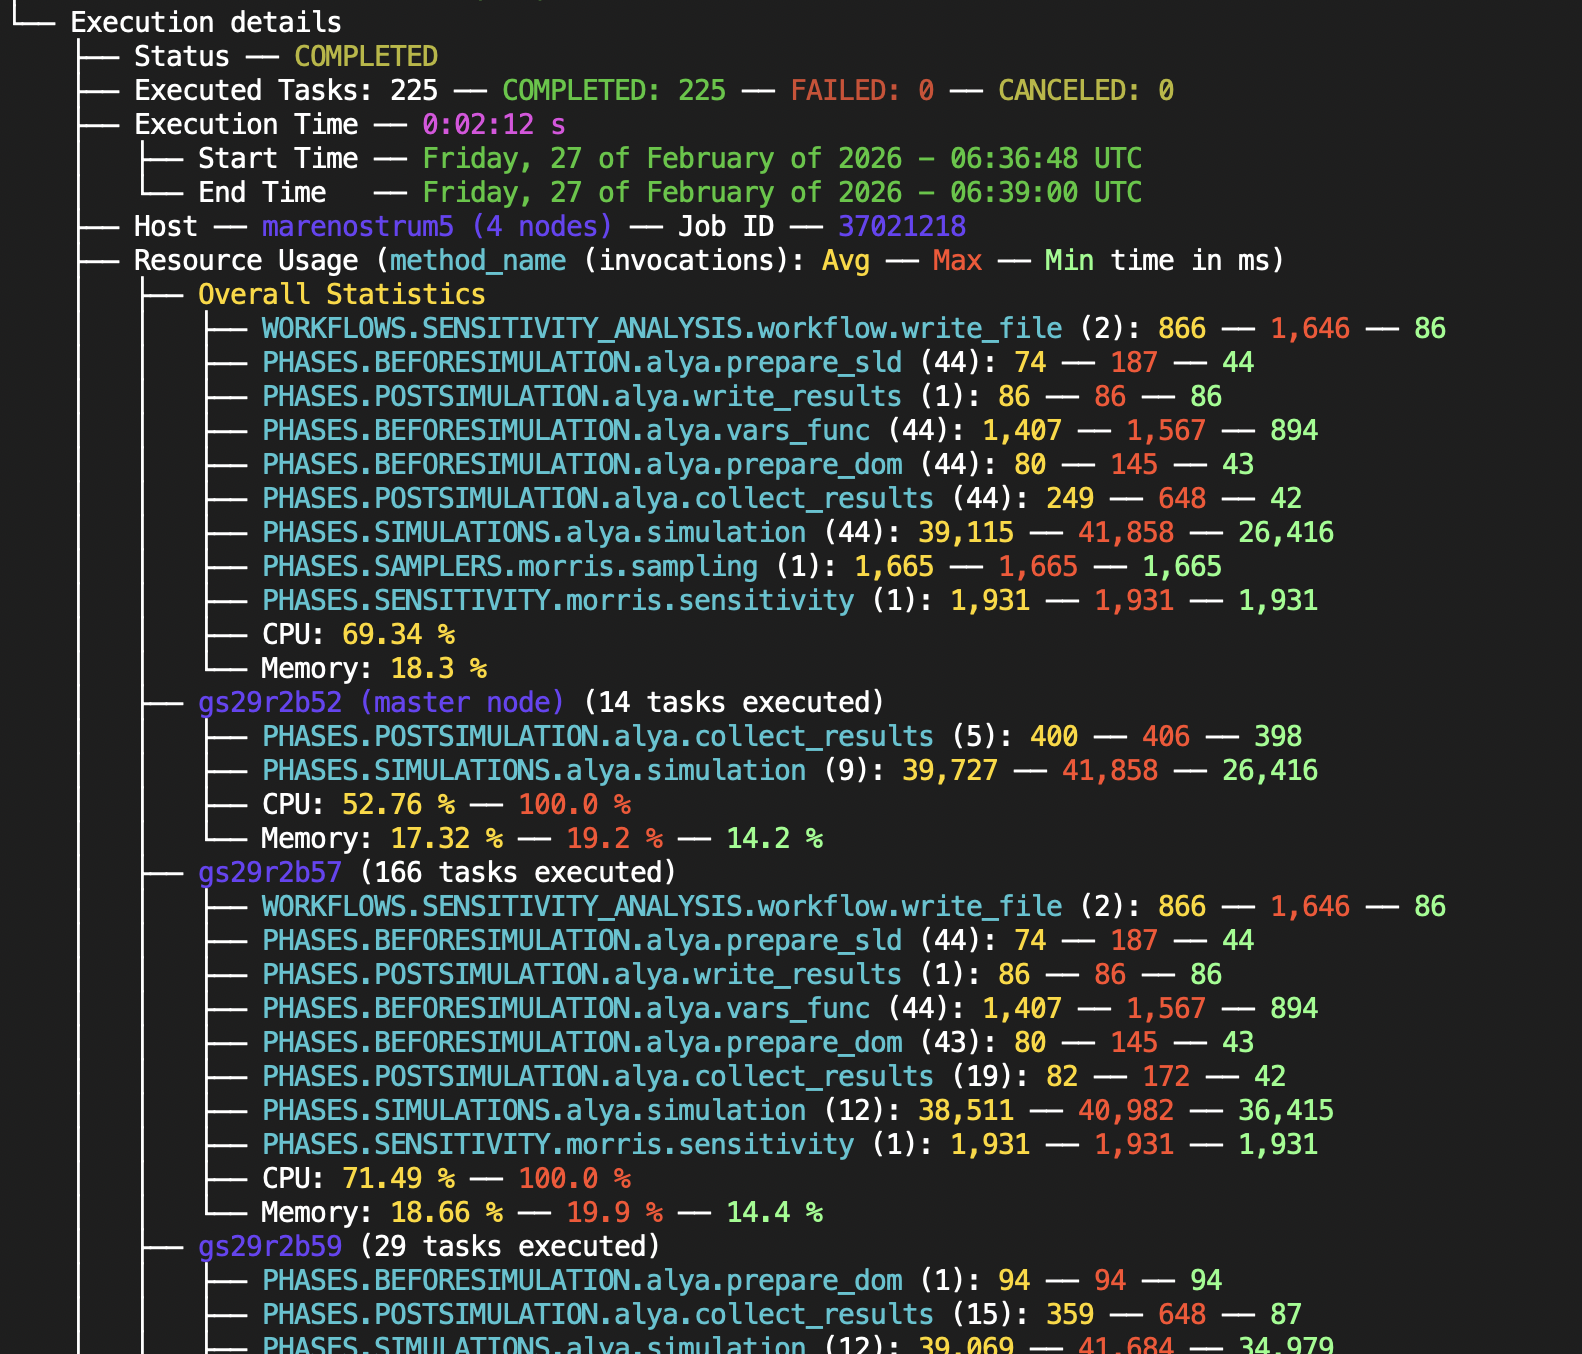
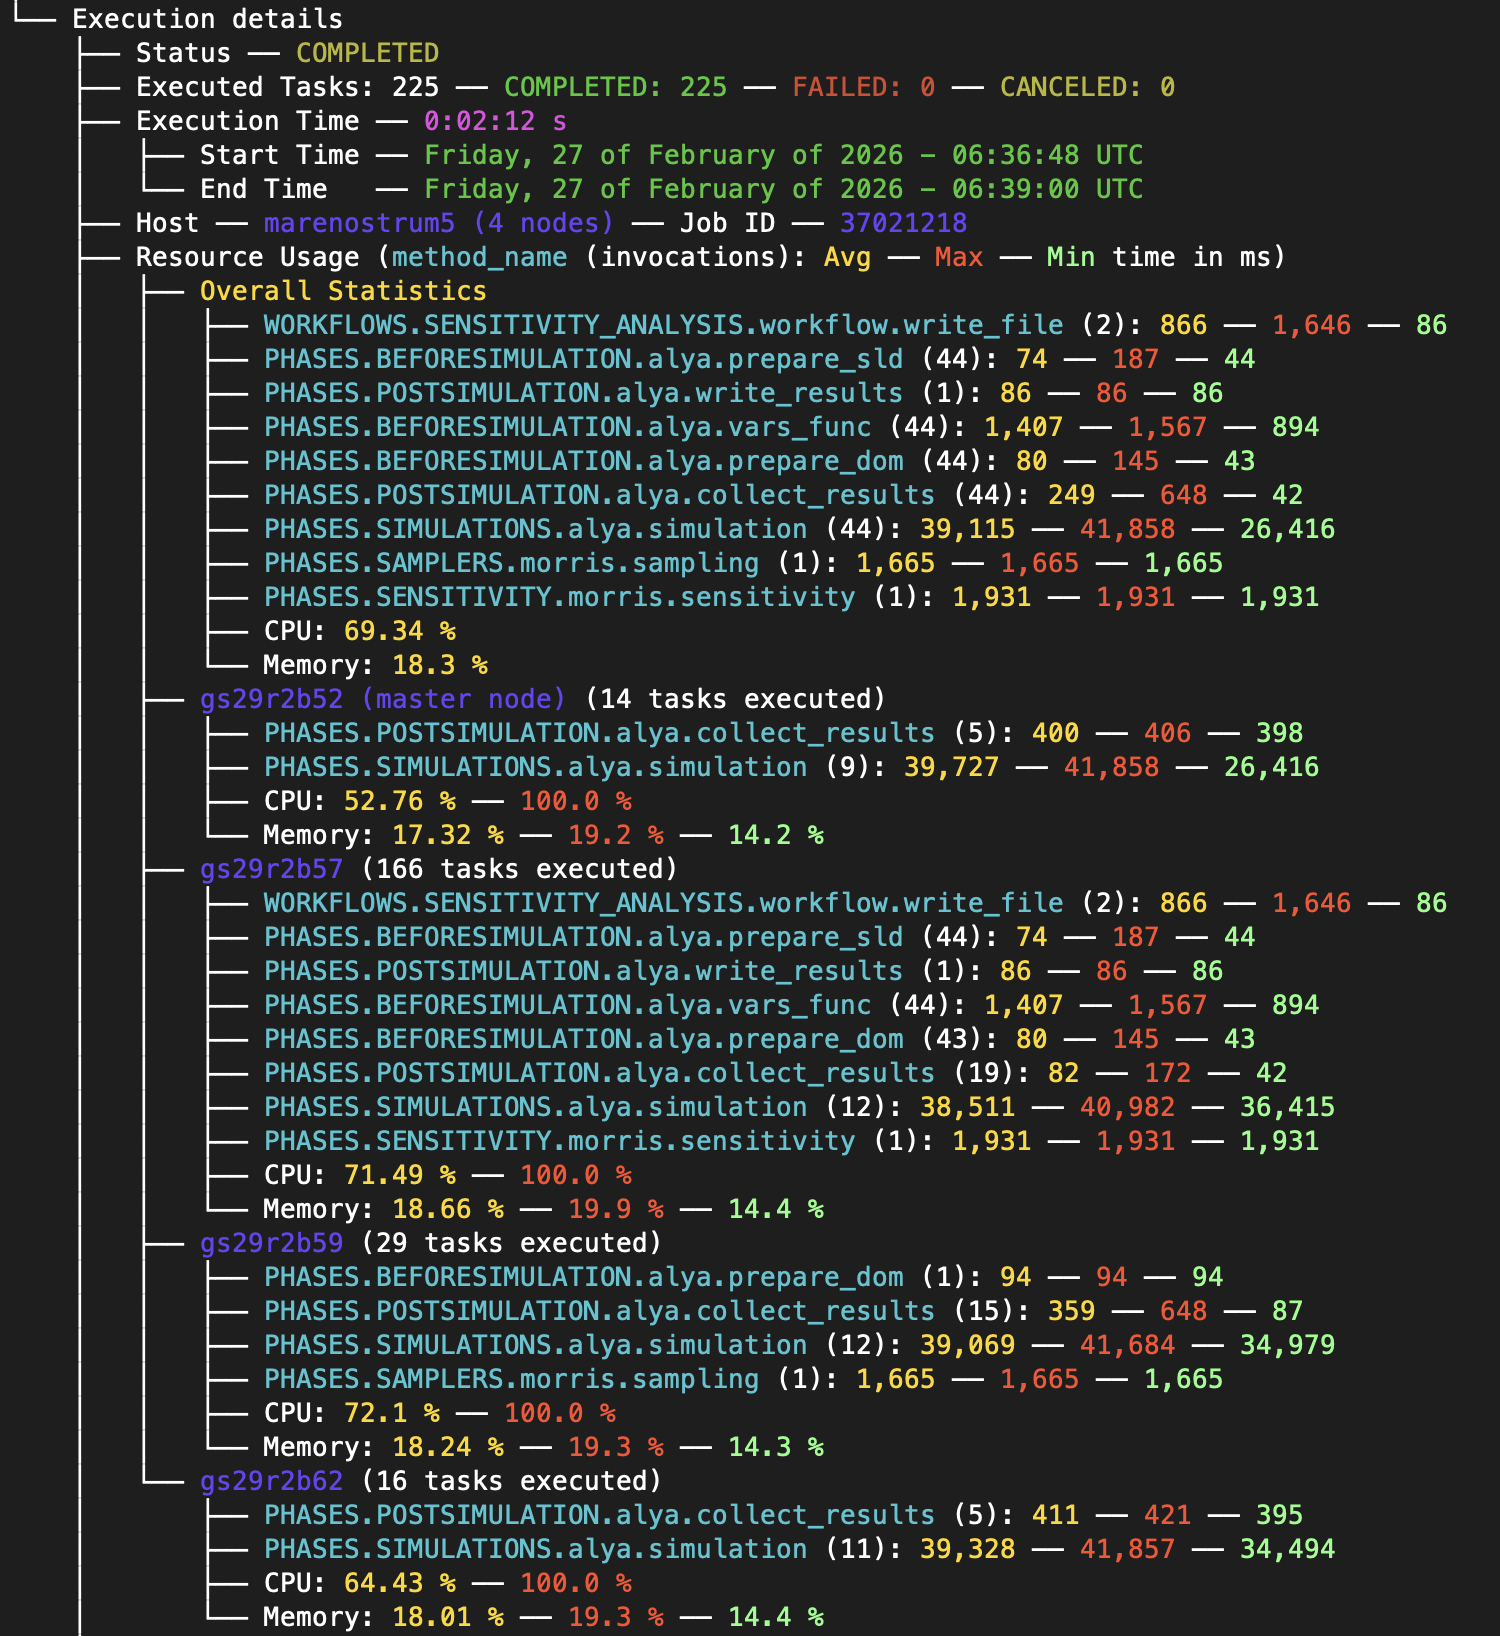
Extended pycompss inspect functionality description

diff --git a/COMPSs_Manuals/source/Sections/04_Ecosystem/09_CLI/02_Usage.rst b/COMPSs_Manuals/source/Sections/04_Ecosystem/09_CLI/02_Usage.rst
@@ -1053,11 +1053,16 @@ has the ``ro-crate-metadata.json`` file in its root.
         executed the application (organisation and e-mail also included when available), and the ``Environment`` and ``Data assets`` fields provide a count 
         of the details captured in those matters.
 
+        .. TIP::
+
+            Wildcards can be used when calling ``pycompss inspect``, thus getting details of may runs at the same time. Also, the output produced can be easily filtered
+            with the ``grep`` command (e.g. ``pycopmss inspect *.zip | grep -e CRATE -e "Execution Time"``)
+
         .. figure:: ./Figures/inspect.png
             :name: Inspect without flags
             :alt: Inspect without flags
             :align: center
-            :width: 50.0%
+            :width: 60.0%
 
             Inspect without flags
 
@@ -1066,13 +1071,23 @@ has the ``ro-crate-metadata.json`` file in its root.
 
         The ``-v/--verbose`` flag can be used to print detailed general information about a run. In particular, when used,
         the fields ``Software Requirements`` and ``RO-Crate compliance`` will appear in the general description. They list the
-        application's software dependencies, and the RO-Crate specifications that the metadata complies, respectively. On the other hand,
+        application's software dependencies, and the RO-Crate specifications that the metadata complies with, respectively. On the other hand,
         in the ``Execution details`` much richer information will be printed, showing ``Start Time`` and ``End Time`` of the
         application (in Coordinated Universal Time (UTC) format), the ``Submission`` field that contains the command that 
         was used to run the experiment and the ``Environment``
-        field that has some relevant environment variables captured during the execution. Moreover, the ``Resource Usage`` section is
+        field that has some relevant environment variables captured during the execution. 
+        
+        Moreover, the ``Resource Usage`` section is
         largely expanded showing resource and method statistics per node used in the computation, and a summary in the
-        ``Overall Statistics`` field.
+        ``Overall Statistics`` field. In detail, the ``Overall Statistics`` section includes statistics on all the methods executed during
+        the experiment: for each method, number of invocations, average, maximum and minimum execution times are also recorded in miliseconds;
+        a general calculation of resource usage is also done by providing the average % CPU and memory usage, obtained from averaging all the worker nodes
+        involved in the computation (excluding the master). After that, details per node are provided, first providing the hostname (and if it is the
+        master of the computation) together with the total of tasks the node executed. Then, inside each node, statistics per method are provided (again
+        number of invocations, average, maximum and minimum execution times in miliseconds) together with CPU and memory statistics, this time including
+        average and maximum % of use of the CPU, and average, maximum and minimum % for the memory. This information can be very useful to do a quick
+        assessment on the usage of resources during the computation, where methods taking too much time to execute can be identified, or even also large
+        load balance differences betwen the nodes can be discovered.
 
         .. figure:: ./Figures/soft_req.png
             :name: Inspect extra details
@@ -1080,46 +1095,60 @@ has the ``ro-crate-metadata.json`` file in its root.
             :align: center
             :width: 30.0%
 
-            Inspect extra details
+            Inspect extra general details
 
 
         .. figure:: ./Figures/verbose.png
             :name: Inspect verbose
             :alt: Inspect verbose
             :align: center
-            :width: 50.0%
+            :width: 60.0%
 
-            Inspect verbose
+            Inspect verbose, providing method and resource usage statistics
 
         .. figure:: ./Figures/submission.png
             :name: Submission
             :alt: Submission and environment variables
             :align: center
-            :width: 70.0%
+            :width: 90.0%
 
-            Detail on submission command and environment variables
+            Detail on submission command and environment variables inside the Execution details section
 
         **List data assets:**
 
-        A ``-d/--data_assets`` flag is available to get details on the inputs used and outputs generated by the workflow execution. Each data asset
-        can be specified either with a relative path inside the crate ``REL_PATH`` when data is persisted in the crate, or a URL with a reference on
-        where to find the file ``URL_PATH`` when data is not persisted. For directories, only the root name is listed, and in the case of individual files
+        A ``-d/--data_assets`` flag is available to get details on the inputs used and outputs generated by the workflow execution. This listing is disabled
+        by default because experiments can have very large sets of files and datasets involved in the computation, and therefore listing them every time can 
+        become annoying. Each data asset
+        can be specified either with a relative path inside the crate (when data is persisted), or a URL referencing
+        where to find the file when data is not persisted. For directories, only the root name is listed, and in the case of individual files,
         the size of the file is also shown.
 
-        **Get details of the tasks that failed:**
+        .. figure:: ./Figures/datasets_persist.png
+            :name: Datasets persist
+            :alt: Datasets persist
+            :align: center
+            :width: 70.0%
 
-        The function of the ``-f/--failing_tasks`` flag is to provide a way to list only the details of the tasks that have failed during the execution.
-        Since the provenance is generated even when failures occur, this information can help the user to debug the application run and easily identify
-        the source of the problem. Failing tasks always include their related execution logs, where failures can be tracked down. Besides, provenance
-        records the inputs used to call the invoked method, which is also a very nice way to clarify to the user how the method was used and if it was
-        as it was expected.
+            Detail on datasets needed (Inputs) and generated (Outputs) by the workflow application. Since relative paths are used, the datasets are
+            persisted in the crate
+
+        .. figure:: ./Figures/datasets_nonpersist.png
+            :name: Datasets nonpersist
+            :alt: Datasets nonpersist
+            :align: center
+            :width: 70.0%
+
+            Detail on datasets needed (Inputs) and generated (Outputs) by the workflow application. Since URLs are used, the datasets are
+            not persisted in the crate
+
 
         **Get details of tasks by number:**
 
         The ``-t/--tasks`` flag can be used to print detailed information about each selected task individually. The flag accepts individual numbers
-        sepparated by spaces (e.g. ``3 4 10``) and ranges of tasks (e.g. ``20-30``), and combinations of both.
+        sepparated by spaces (e.g. ``3 4 10``), ranges of tasks (e.g. ``20-30``) and combinations of both.
         Details such as its status,
-        what method was executed, the execution time, the host where the task ran, what parameters were used (together with their type and value)
+        what specific method was executed, the execution time, the host where the task ran, what parameters were used (together with their type and value and a brief
+        description for complex types)
         and the task's related log files (if the task failed or debug mode is used). For tasks that failed or were canceled, we do not capture 
         output parameters since they cannot be relied upon. This means that, when listing
         their details, no ``Outputs`` will be listed. In case of failure, the ``Execution Time`` will correspond to the run time the task was running ok
@@ -1130,14 +1159,74 @@ has the ``ro-crate-metadata.json`` file in its root.
             We STRONGLY recommend to use the workflow diagram (i.e. ``complete_graph.svg``) to easily understand task id numbers for later selection with ``-t``.
 
 
+        .. figure:: ./Figures/task_details_1.png
+            :name: Task details 1
+            :alt: Task details 1
+            :align: center
+            :width: 90.0%
+
+            Task details: examples on Array of Files and File parameters. Corresponding task execution log files are also listed
+
+        .. figure:: ./Figures/task_details_2.png
+            :name: Task details 2
+            :alt: Task details 2
+            :align: center
+            :width: 90.0%
+
+            Task details: examples with Integer, Dictionary and Numpy array parameters
+
+
         **Get details of tasks by method name:**
 
-        Simlarly to the previous flag, the ``-m/--methods`` flag provides a way to filter all the tasks executed but this time using a pattern to filter
+        Simlarly to the previous flag ``-t``, the ``-m/--methods`` flag provides a way to filter all the tasks executed but this time using a pattern to filter
         them by the name of the method the tasks have executed. In this case, only a single pattern can be passed to the flag.
+
+        **Get details of the tasks that failed:**
+
+        The function of the ``-f/--failing_tasks`` flag is to provide a way to list only the details of the tasks that have failed during the execution.
+        Since the provenance is generated even when failures occur, this information can help users to debug the application run and easily identify
+        the source of a problem. Failing tasks always include their related execution logs, where failures can be tracked down. Besides, provenance
+        records the exact values of the inputs used to call the invoked method, which is also a very nice way to clarify to the user how the
+        method was called and if it was as it was expected.
+
+        .. figure:: ./Figures/failure.png
+            :name: Failing task
+            :alt: Failing task
+            :align: center
+            :width: 70.0%
+
+            Details on Task 385 that failed. We can see that both Inputs and execution logs are indicated so the user can check them to look for errors
+
 
         **Compatibility with other WMSs:**
 
-        ASDF
+        Thanks to being compliant with RO-Crate, and especifically with the Workflow Run RO-Crate collection of profiles (Workflow Run and Provenance Run),
+        the pycompss inspect functionality is **interoperable with other Workflow Management Systems (WMSs)** that generate metadata in this format.
+        Some examples are: CWL, nextflow, Galaxy, Streamflow, Snakemake, Autosubmit, WfExS, and more.
+
+        .. figure:: ./Figures/streamflow.png
+            :name: Streamflow pipeline
+            :alt: Streamflow pipeline
+            :align: center
+            :width: 70.0%
+
+            Streamflow pipeline details obtained with pycompss inspect
+
+        .. figure:: ./Figures/autosubmit.png
+            :name: Autosubmit pipeline
+            :alt: Autosubmit pipeline
+            :align: center
+            :width: 80.0%
+
+            Autosubmit pipeline details obtained with pycompss inspect
+
+        .. figure:: ./Figures/wfexs.png
+            :name: WfExS pipeline
+            :alt: WfExS pipeline
+            :align: center
+            :width: 90.0%
+
+            WfExS pipeline details obtained with pycompss inspect
 
         
    .. tab-item:: Remote
